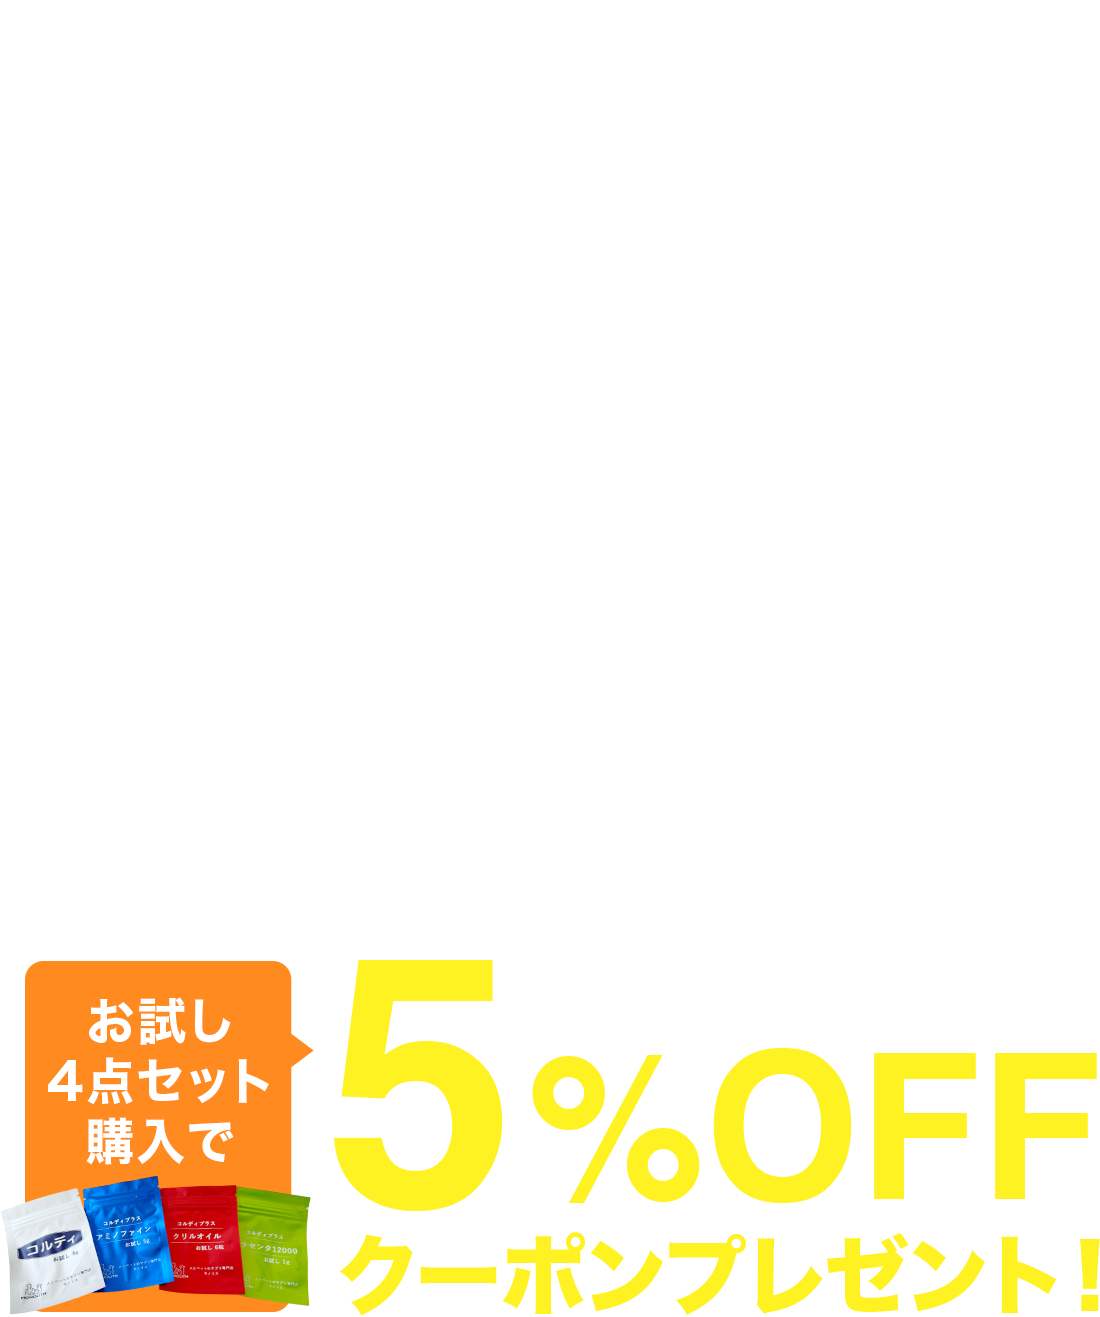
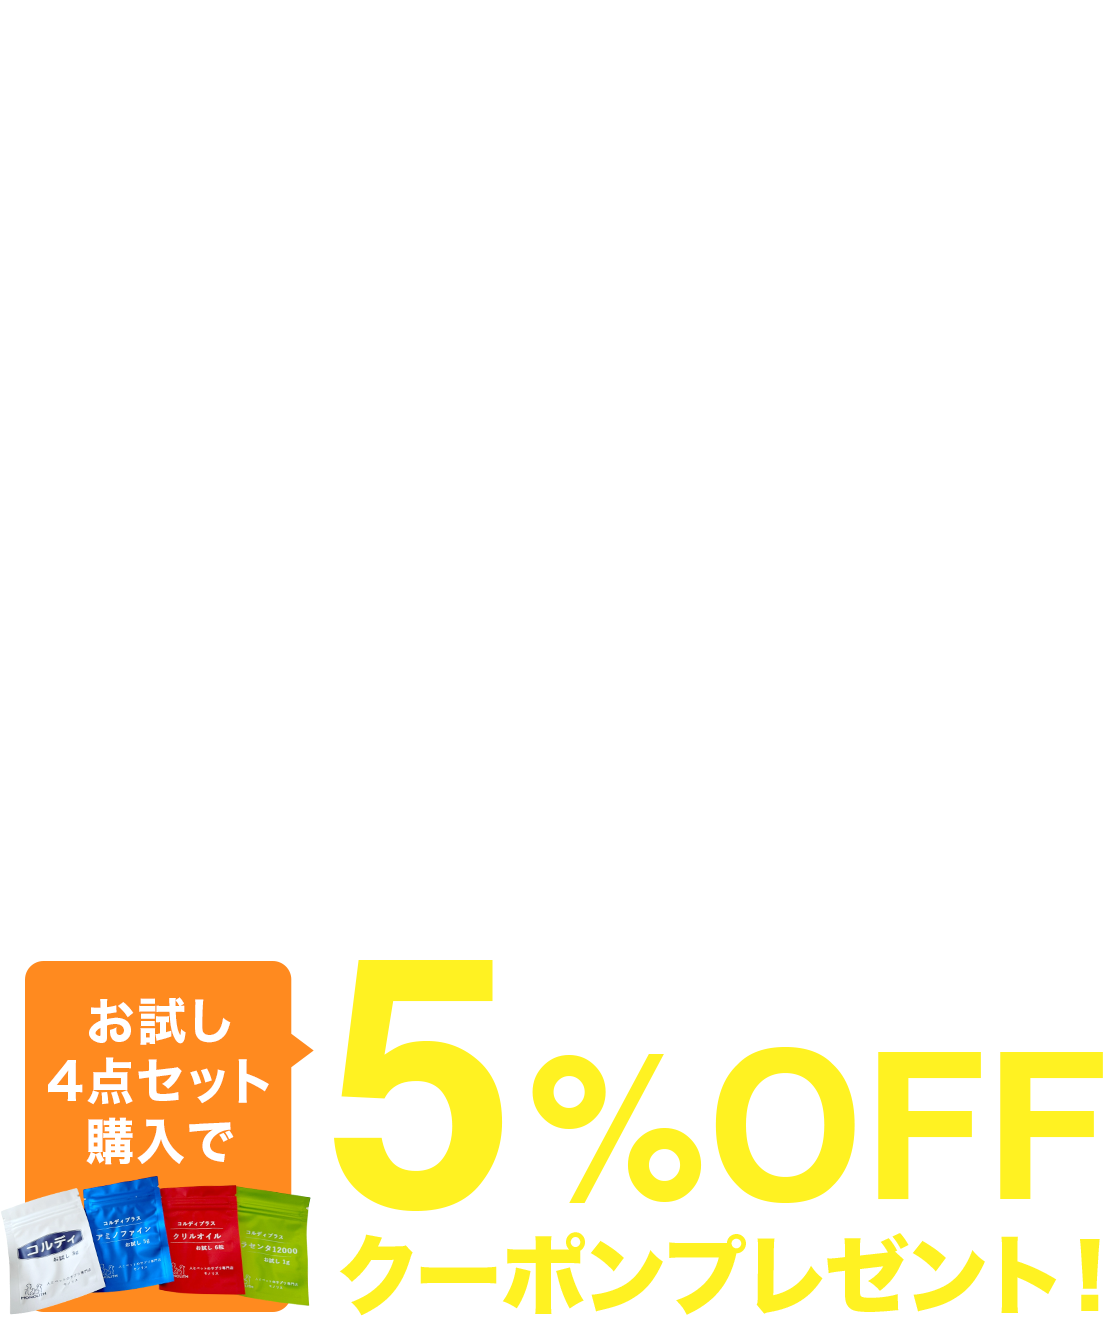
クーポンを「次回対象サプリに使える」（セット内4種類・容量問わず）に変更、FV載せる画像を最新版に差し替え

diff --git a/index.html b/index.html
@@ -424,7 +424,7 @@ section[id],header[id]{scroll-margin-top:62px}
 .es-b .pr small{font-family:var(--sans);font-size:12px}
 .es-b .go{display:inline-flex;align-items:center;gap:4px;font-size:12.5px;font-weight:700;color:var(--teal)}
 .es-b .go .ic{font-size:13px}
-.pairs ul.use{grid-template-columns:1fr}
+.pairs ul.use{grid-template-columns:1fr 1fr}
 .pairs ul.use li{justify-content:center}
 .pairs ul.use li span{background:var(--aqua);padding:8px 12px;border-radius:10px;width:100%;text-align:center}
 .pairs-note{margin:10px 0 0!important;font-size:12px!important;font-weight:500!important;color:var(--muted);text-align:center}
@@ -573,6 +573,11 @@ section[id],header[id]{scroll-margin-top:62px}
 .buy-set.wide .bs-t b{font-size:19px}
 .buy-set.wide .bs-t small{display:block;font-size:11.5px;margin-top:2px}
 .buy-set.wide .bs-p{font-size:24px}
+.pairs ul.use li{display:block}
+.pairs ul.use li span{display:block;font-size:15px;font-weight:700;padding:10px 8px}
+.tbd dd{text-align:left}
+.tbd dd small{font-size:12px;color:var(--muted);font-weight:500}
+.tbd dt{text-align:left}
 </style>
 </head>
 <body>
@@ -628,8 +633,8 @@ section[id],header[id]{scroll-margin-top:62px}
       <img src="img/fv-341735787.jpg" alt="飼い主さんの足元に寄り添うゴールデンレトリバー">
       <img src="img/fv-168600257.jpg" alt="飼い主さんの腕の中でくつろぐ猫">
       <span class="fv-scrim" aria-hidden="true"></span>
-      <h1 class="fv-h1"><span class="sr">これからも、一緒に元気な毎日を。お試し4点セット購入で、次回通常商品に使える5%OFFクーポンプレゼント！</span></h1>
-      <a class="fv-over" href="#items" aria-label="お試し4点セットへ"><img src="img/fv-overlay.png?v=2" alt=""></a>
+      <h1 class="fv-h1"><span class="sr">これからも、一緒に元気な毎日を。お試し4点セット購入で、次回対象サプリに使える5%OFFクーポンプレゼント！</span></h1>
+      <a class="fv-over" href="#items" aria-label="お試し4点セットへ"><img src="img/fv-overlay.png?v=3" alt=""></a>
     </div>
   </div>
   <div class="fv-under">
@@ -664,7 +669,7 @@ section[id],header[id]{scroll-margin-top:62px}
         <span class="go">商品ページへ<svg class="ic"><use href="#i-right"/></svg></span>
       </span>
     </a>
-    <p class="pricenote">※価格は税込（配送方法：追跡可能メール便）。購入された方に、次回の通常商品に使える5%OFFクーポンをメールでお届けします（企画案・開催前）。</p>
+    <p class="pricenote">※価格は税込（配送方法：追跡可能メール便）。購入された方に、次回セット内のサプリ（容量問わず）に使える5%OFFクーポンをメールでお届けします（企画案・開催前）。</p>
   </div>
 </section>
 
@@ -909,12 +914,12 @@ section[id],header[id]{scroll-margin-top:62px}
   <div class="wrap">
     <span class="en">COUPON</span>
     <div class="num">05 つづけたい方へ</div>
-    <h2 class="h2" id="next-h">お試しのあとは<span class="pe">、</span><br><em>通常サイズがおトク</em>に！</h2>
-    <p class="lead">気に入ってくれたら、次は通常サイズで。「お試し4点セット」をご購入の方に、次回の通常商品に使えるクーポンをご用意します。</p>
+    <h2 class="h2" id="next-h">お試しのあとは<span class="pe">、</span><br><em>対象サプリがおトク</em>に！</h2>
+    <p class="lead">気に入ってくれたら、次は続けやすいサイズで。「お試し4点セット」をご購入の方に、セットに入っている4種類のサプリに次回使えるクーポンをご用意します。容量は問いません。</p>
 
-    <div class="coupon" role="img" aria-label="お試し4点セット購入で、次回通常商品に使える5%OFFクーポン">
+    <div class="coupon" role="img" aria-label="お試し4点セット購入で、次回対象サプリに使える5%OFFクーポン">
       <span class="cp-lab">お試し4点セット購入で</span>
-      <p class="cp-pre">次回通常商品に使える</p>
+      <p class="cp-pre">次回対象サプリに使える</p>
       <div class="cp-val">5<small>%</small><span>OFF</span></div>
       <p class="cp-big">クーポン</p>
     </div>
@@ -923,7 +928,7 @@ section[id],header[id]{scroll-margin-top:62px}
     <ol class="flow">
       <li><svg class="ic"><use href="#i-bag"/></svg><span><span class="st">STEP 1</span><b>お試し4点セットを購入</b><small>4種類を少しずつ、食べてくれるか確認</small></span></li>
       <li class="hl"><svg class="ic"><use href="#i-gift"/></svg><span><span class="st">STEP 2</span><b>5%OFFクーポンをお届け</b><small>次回のお買い物で使えるクーポン<br>クーポンはメールでお届けします</small></span></li>
-      <li><svg class="ic"><use href="#i-cart"/></svg><span><span class="st">STEP 3</span><b>通常商品がおトクに</b><small>次回のお買い物で、通常商品に使えます</small></span></li>
+      <li><svg class="ic"><use href="#i-cart"/></svg><span><span class="st">STEP 3</span><b>対象サプリがおトクに</b><small>セット内の4種類に、容量問わず使えます</small></span></li>
     </ol>
 
     <div class="elig">
@@ -935,19 +940,21 @@ section[id],header[id]{scroll-margin-top:62px}
     </div>
 
     <div class="pairs">
-      <p>クーポンが使える通常商品（例）</p>
+      <p>クーポンが使える対象サプリ</p>
       <ul class="use">
-        <li><span>コルディM／G 30g・100g</span></li>
-        <li><span>クリルオイル 180粒</span></li>
-        <li><span>プラセンタ12000 30g</span></li>
+        <li><span>コルディ</span></li>
+        <li><span>クリルオイル</span></li>
+        <li><span>アミノファイン</span></li>
+        <li><span>プラセンタ12000</span></li>
       </ul>
-      <p class="pairs-note">対象となる通常商品の範囲は調整中です<span class="pe">。</span></p>
+      <p class="pairs-note">お試し4点セットに入っている4種類が対象<span class="pe">。</span><br>容量・サイズは問いません<span class="pe">。</span></p>
     </div>
 
     <p class="tbd-cap">クーポンの条件（企画中）</p>
     <dl class="tbd">
       <div><dt>割引</dt><dd>5%OFF</dd></div>
-      <div><dt>対象の方</dt><dd>お試し4点セットを購入された方</dd></div>
+      <div><dt>対象商品</dt><dd>セット内の4種類<br><small>容量・サイズ問わず</small></dd></div>
+      <div><dt>対象の方</dt><dd>お試し4点セット購入者</dd></div>
       <div><dt>配布方法</dt><dd>メールでお届け</dd></div>
       <div><dt>利用期限</dt><dd class="u">調整中</dd></div>
     </dl>
